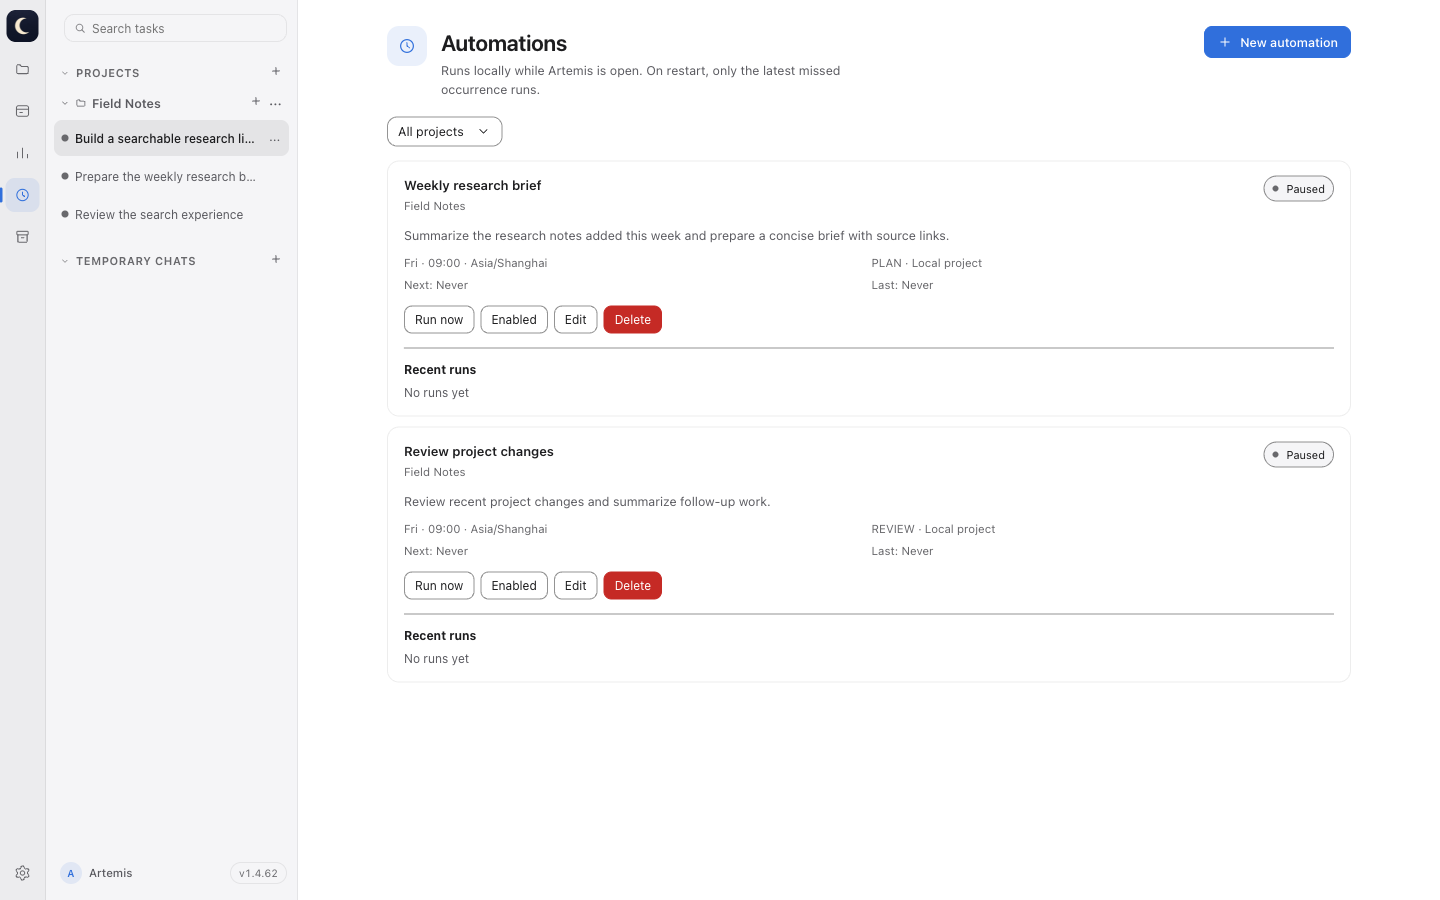
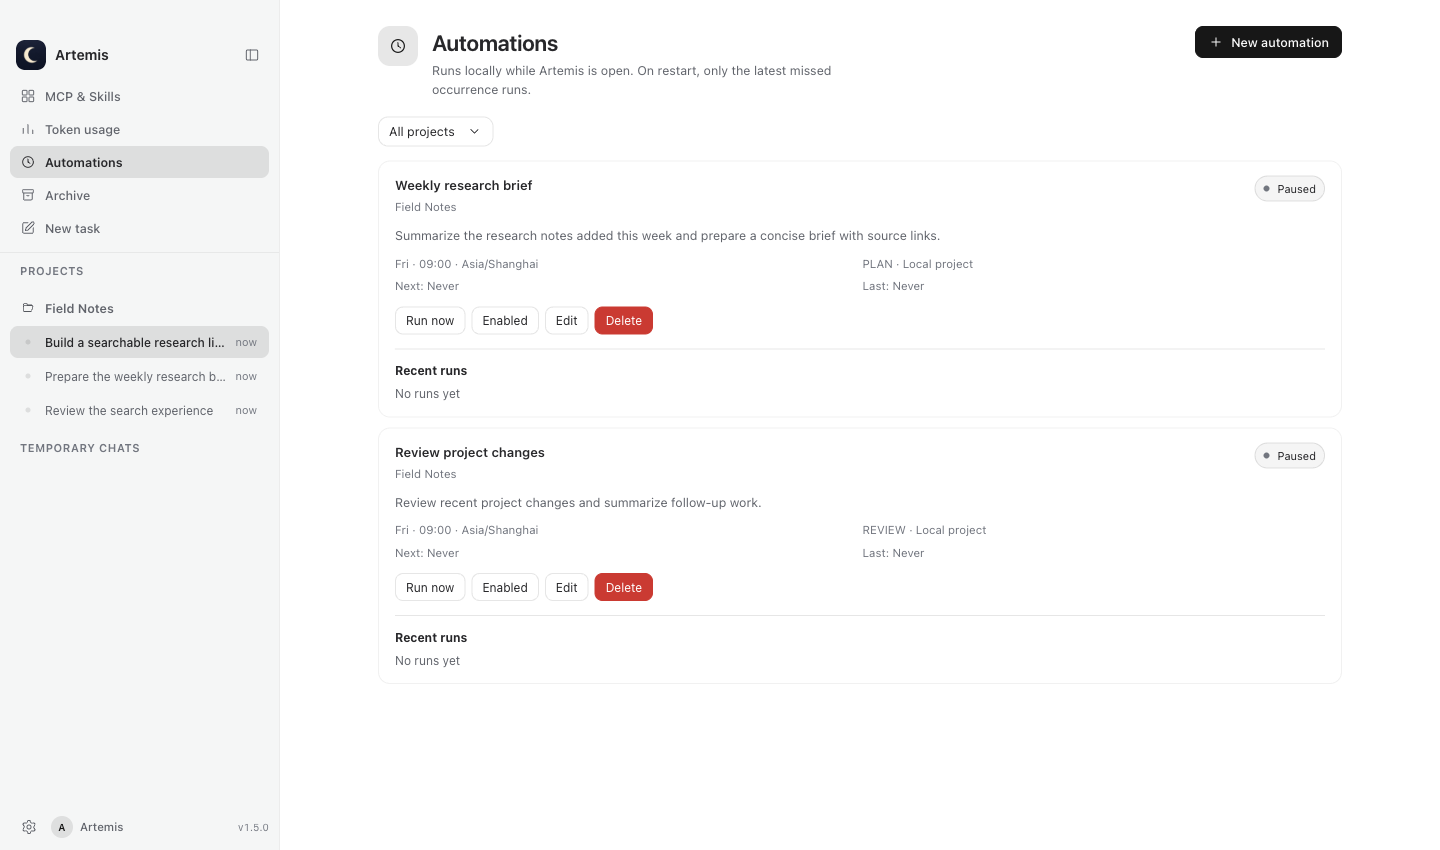
Release 1.5.0 with refreshed README visuals and verification

diff --git a/docs/diagrams/artemis-system-architecture.html b/docs/diagrams/artemis-system-architecture.html
@@ -174,10 +174,10 @@
         <rect width="1280" height="864" fill="#f5f5f7" />
         <text x="40" y="60" class="title">Artemis system architecture</text>
         <text x="40" y="92" class="subtitle">
-          A local desktop. One Pi agent loop. Explicit boundaries.
+          Local tasks, shared IM spaces and one Pi agent loop.
         </text>
         <text x="1240" y="60" text-anchor="end" class="tech">
-          IMPLEMENTATION OVERVIEW
+          VERSION 1.5.0
         </text>
 
         <!-- Process boundaries precede all connectors and nodes. -->
@@ -263,7 +263,7 @@
             Root sessions → local Pi JSONL
           </text>
           <text x="724" y="344" class="body">
-            Child sessions → memory + scheduler
+            Child agents → teams + concurrency
           </text>
         </g>
         <g data-node="providers">
@@ -292,9 +292,9 @@
           />
           <text x="84" y="484" class="name">Optional IM gateway</text>
           <text x="84" y="512" class="body">
-            Feishu / Slack · paired devices
+            Feishu / Slack · scoped grants
           </text>
-          <text x="84" y="536" class="tech">@artemis/gateway</text>
+          <text x="84" y="536" class="tech">Pairing · shared groups</text>
         </g>
         <g data-node="storage">
           <rect x="400" y="452" width="200" height="96" rx="8" class="store" />
@@ -328,7 +328,7 @@
           Desktop-user filesystem and network.
         </text>
         <text x="40" y="748" class="body">
-          Shell: Execute + approval. Terminal: user-opened.
+          Shell: approval + wait / cancel. Terminal: user-opened.
         </text>
         <text x="492" y="696" class="tag">Local stdio MCP</text>
         <text x="492" y="724" class="body">
@@ -346,11 +346,11 @@
         </text>
         <line x1="40" y1="784" x2="1240" y2="784" stroke="#0000001f" />
         <text x="40" y="820" class="body">
-          Project tasks use the Local checkout. Temporary chats use an isolated
-          generated workspace.
+          IM tools: scoped file broker + native sandbox; no desktop Shell
+          fallback.
         </text>
         <text x="1240" y="820" text-anchor="end" class="tech">
-          DASHED EDGES: EVENT RETURN / OPTIONAL IM
+          LOCAL CHECKOUT · ISOLATED TEMPORARY CHATS
         </text>
       </svg>
     </main>

diff --git a/apps/desktop/test/release-version.test.ts b/apps/desktop/test/release-version.test.ts
@@ -5,11 +5,12 @@ import { fileURLToPath } from "node:url";
 import { describe, expect, it } from "vitest";
 
 const root = fileURLToPath(new URL("../../../", import.meta.url));
-const releaseVersion = "1.4.66";
+const releaseVersion = "1.5.0";
 const workspacePaths = [
   "apps/desktop",
   "apps/ui-gallery",
   "packages/agent-host",
+  "packages/gateway",
   "packages/platform",
   "packages/protocol",
   "packages/theme-artemis",
@@ -25,7 +26,7 @@ function json(path: string): Record<string, unknown> {
 }
 
 describe("release version", () => {
-  it("keeps manifests, lockfile, MCP identity, theme, and README at v1.4.66", () => {
+  it("keeps manifests, lockfile, MCP identity, theme, and README at v1.5.0", () => {
     const manifests = [json("package.json")];
     for (const workspacePath of workspacePaths) {
       manifests.push(json(join(workspacePath, "package.json")));
@@ -65,14 +66,14 @@ describe("release version", () => {
       "utf8",
     );
     const readme = readFileSync(join(root, "README.md"), "utf8");
-    expect(mcp.match(/version: "1\.4\.66"/gu)).toHaveLength(3);
+    expect(mcp.match(/version: "1\.5\.0"/gu)).toHaveLength(3);
     expect(
       themeArtemisSource.match(
         /ARTEMIS_THEME_VERSION = "([^"]+)" as const;/u,
       )?.[1],
     ).toBe(releaseVersion);
-    expect(readme).toContain("The `1.4.66` packaging configuration produces:");
-    expect(new Set(readme.match(/\b1\.4\.\d+\b/gu) ?? [])).toEqual(
+    expect(readme).toContain("The `1.5.0` packaging configuration produces:");
+    expect(new Set(readme.match(/\b1\.\d+\.\d+\b/gu) ?? [])).toEqual(
       new Set([releaseVersion]),
     );
   });

diff --git a/apps/desktop/src/main/mcp-client-manager.ts b/apps/desktop/src/main/mcp-client-manager.ts
@@ -965,7 +965,7 @@ export class McpClientManager {
     ) => {
       let client = new Client({
         name: "Artemis",
-        version: "1.4.66",
+        version: "1.5.0",
       });
       let stdioTransport: StdioClientTransport | undefined;
       let waitForWindowsSandboxTeardown = false;
@@ -1242,7 +1242,7 @@ export class McpClientManager {
           }
           client = new Client({
             name: "Artemis",
-            version: "1.4.66",
+            version: "1.5.0",
           });
           command = {
             ...command,
@@ -1299,7 +1299,7 @@ export class McpClientManager {
           }
           client = new Client({
             name: "Artemis",
-            version: "1.4.66",
+            version: "1.5.0",
           });
           transport = createTransport();
           await client.connect(transport as Parameters<Client["connect"]>[0]);

diff --git a/packages/theme-artemis/src/index.ts b/packages/theme-artemis/src/index.ts
@@ -9,7 +9,7 @@ import {
 } from "@artemis/theme-contract";
 
 export const ARTEMIS_SKIN_ID = "com.artemis.default" as const;
-export const ARTEMIS_THEME_VERSION = "1.4.66" as const;
+export const ARTEMIS_THEME_VERSION = "1.5.0" as const;
 
 const color = (value: `#${string}`) => ({ kind: "color", value }) as const;
 const length = (value: number) =>

diff --git a/apps/ui-gallery/test/public-contract.test.ts b/apps/ui-gallery/test/public-contract.test.ts
@@ -11,7 +11,7 @@ describe("UI Gallery public package contract", () => {
     expect(galleryContract).toEqual(
       expect.objectContaining({
         uiContractVersion: 1,
-        themeVersion: "1.4.66",
+        themeVersion: "1.5.0",
         skinId: "com.artemis.default",
         stressSkinId: "com.artemis.synthetic-stress",
       }),

diff --git a/README.md b/README.md
@@ -1136,7 +1136,9 @@ loop. Raw Pi events pass through `PiAdapter` before reaching the Artemis
 protocol. Durable UI events receive authoritative IDs and sequences before
 persistence and publication; live child-Agent activity uses coalesced IPC
 batches. Model providers and the optional Feishu/Slack gateway remain separate
-integrations.
+integrations. IM-originated tasks use scoped remote tools with a host file
+broker and native sandbox, never the desktop Shell fallback. Desktop Shell
+commands support observation windows, continued execution, waiting and cancellation.
 
 | Boundary                       | Responsibility                                                                                                                                          |
 | ------------------------------ | ------------------------------------------------------------------------------------------------------------------------------------------------------- |
@@ -1212,21 +1214,17 @@ audit step; all other gates remain required.
 
 `.github/workflows/release.yml` runs the same source gate when a `v*.*.*` tag is
 pushed. The tag must exactly match the root package version, for example
-`v1.4.66`. After verification succeeds, native GitHub-hosted runners build
+`v1.5.0`. After verification succeeds, native GitHub-hosted runners build
 Windows x64, macOS Apple Silicon arm64 and macOS Intel x64 packages. A final job
 checks the exact five-file package set before creating one GitHub Release, so a
 failed platform build cannot publish a partial release.
 
 ```bash
-git tag v1.4.66
-git push origin v1.4.66
+git tag v1.5.0
+git push origin v1.5.0
 ```
 
 ### Build and test matrix
-
-The desktop CSS ceiling is 353,000 bytes: the same Vite pipeline measured
-352,353 bytes at the prior main commit and 352,386 bytes after the fixes (including reduced-motion sidebar handling).
-Startup and JavaScript budgets remain unchanged.
 
 ```powershell
 npm test
@@ -1236,15 +1234,15 @@ npm run format:check
 npm run verify:screenshot-matrix
 ```
 
-Version 1.4.66 aligns sidebar and conversation status dots at 5px and sets
-conversation message text to 13px. It also retains the larger directory-tree
-folder icons and synchronizes the icon catalog contract with the shipped icons.
-The desktop CSS measures 354,554 bytes, 170 bytes above the current main baseline,
-within the documented 355,000-byte budget.
+Version 1.5.0 refreshes the product screenshots and architecture overview to
+match the current desktop, including the workspace dock, Agent teams and IM
+collaboration. All workspace packages, theme metadata and MCP client identities
+use the same release version.
 The production lockfile resolves `js-yaml` to `4.3.2`, fixing
 [GHSA-2883-xcg3-v3hh](https://github.com/advisories/GHSA-2883-xcg3-v3hh).
 
-The current package test suites contain **2379 passing tests** (12 skipped).
+The full `npm test` run for **1.5.0**, verified on September 9, 2026,
+contains **2379 passing tests** (12 skipped).
 Repeated UI and UI Gallery runs inside the verification pipeline are counted
 once:
 
@@ -1262,8 +1260,9 @@ automations, usage insights, persisted project ordering, local profile images,
 configuration import, Skills, MCP, extensions, Terminal behavior and
 Windows-native extension sandbox boundaries.
 
-The release dependency tree also reports **0 known vulnerabilities** through
-`npm audit`.
+The production dependency audit for this release reports **0 high or critical
+vulnerabilities**, with 1 moderate and 3 low findings. The configured release
+audit gate passes; these remaining findings are not counted as fixed.
 
 Windows-native verification additionally exercises the desktop-user PTY with
 workspace/outside writes and network access, local stdio MCP inside AppContainer
@@ -1279,13 +1278,13 @@ operations. A fresh build therefore needs only this repository and its npm
 development dependencies; neither the build machine nor the user's computer
 needs a Codex installation.
 
-The `1.4.66` packaging configuration produces:
+The `1.5.0` packaging configuration produces:
 
-| Target                    | Artifacts                                                        |
-| ------------------------- | ---------------------------------------------------------------- |
-| Windows x64               | `apps/desktop/release/Artemis-Windows-x64-1.4.66.zip`            |
-| macOS Apple Silicon arm64 | `apps/desktop/release/Artemis-macOS-arm64-1.4.66.dmg` and `.zip` |
-| macOS Intel x64           | `apps/desktop/release/Artemis-macOS-x64-1.4.66.dmg` and `.zip`   |
+| Target                    | Artifacts                                                       |
+| ------------------------- | --------------------------------------------------------------- |
+| Windows x64               | `apps/desktop/release/Artemis-Windows-x64-1.5.0.zip`            |
+| macOS Apple Silicon arm64 | `apps/desktop/release/Artemis-macOS-arm64-1.5.0.dmg` and `.zip` |
+| macOS Intel x64           | `apps/desktop/release/Artemis-macOS-x64-1.5.0.dmg` and `.zip`   |
 
 > [!WARNING]
 > **macOS GitHub Release packages are not Apple distribution builds.** They

diff --git a/docs/readme-visuals.md b/docs/readme-visuals.md
@@ -2,12 +2,12 @@
 
 ## Desktop screenshots
 
-The README screenshots were captured on September 6, 2026 from a locally built
-Artemis 1.4.62 desktop running on macOS arm64. They show the production Electron
+The README screenshots were captured on September 9, 2026 from a locally built
+Artemis 1.5.0 desktop running on macOS arm64. They show the production Electron
 renderer, not the UI prototype or component Gallery.
 
-Each capture is 1440 × 900 CSS pixels at 100% zoom, with the native titlebar
-excluded. The [capture manifest](images/screenshots/manifest.json) records the
+Each capture is 1440 × 850 CSS pixels at 100% zoom, with the full application viewport
+included. The [capture manifest](images/screenshots/manifest.json) records the
 source HEAD, working-tree qualification, timestamp, renderer security settings,
 image dimensions and SHA-256 hashes. These are local working-tree captures;
 they are not screenshots of a signed release.
